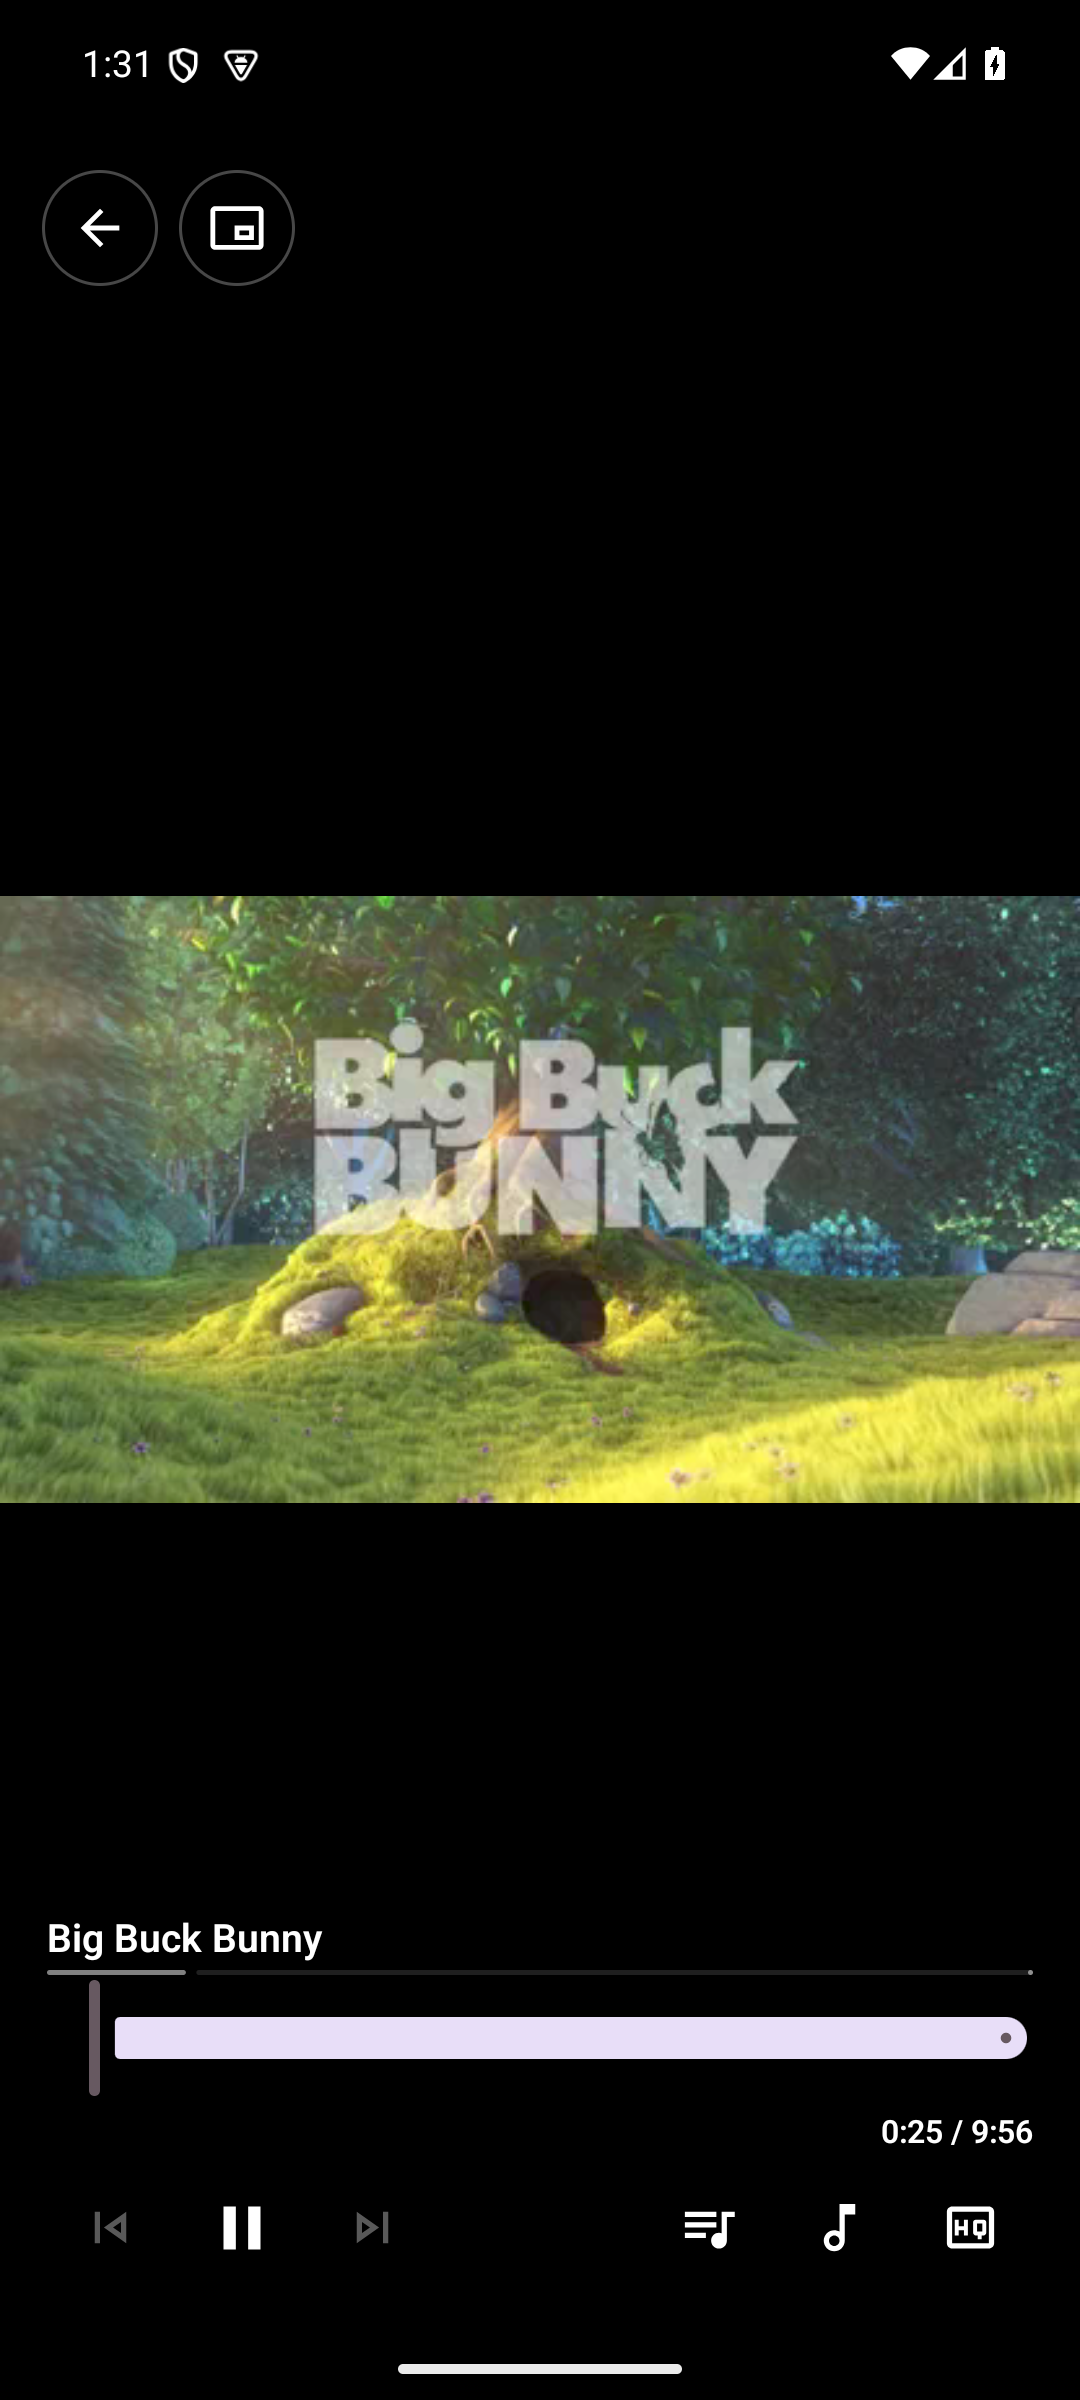
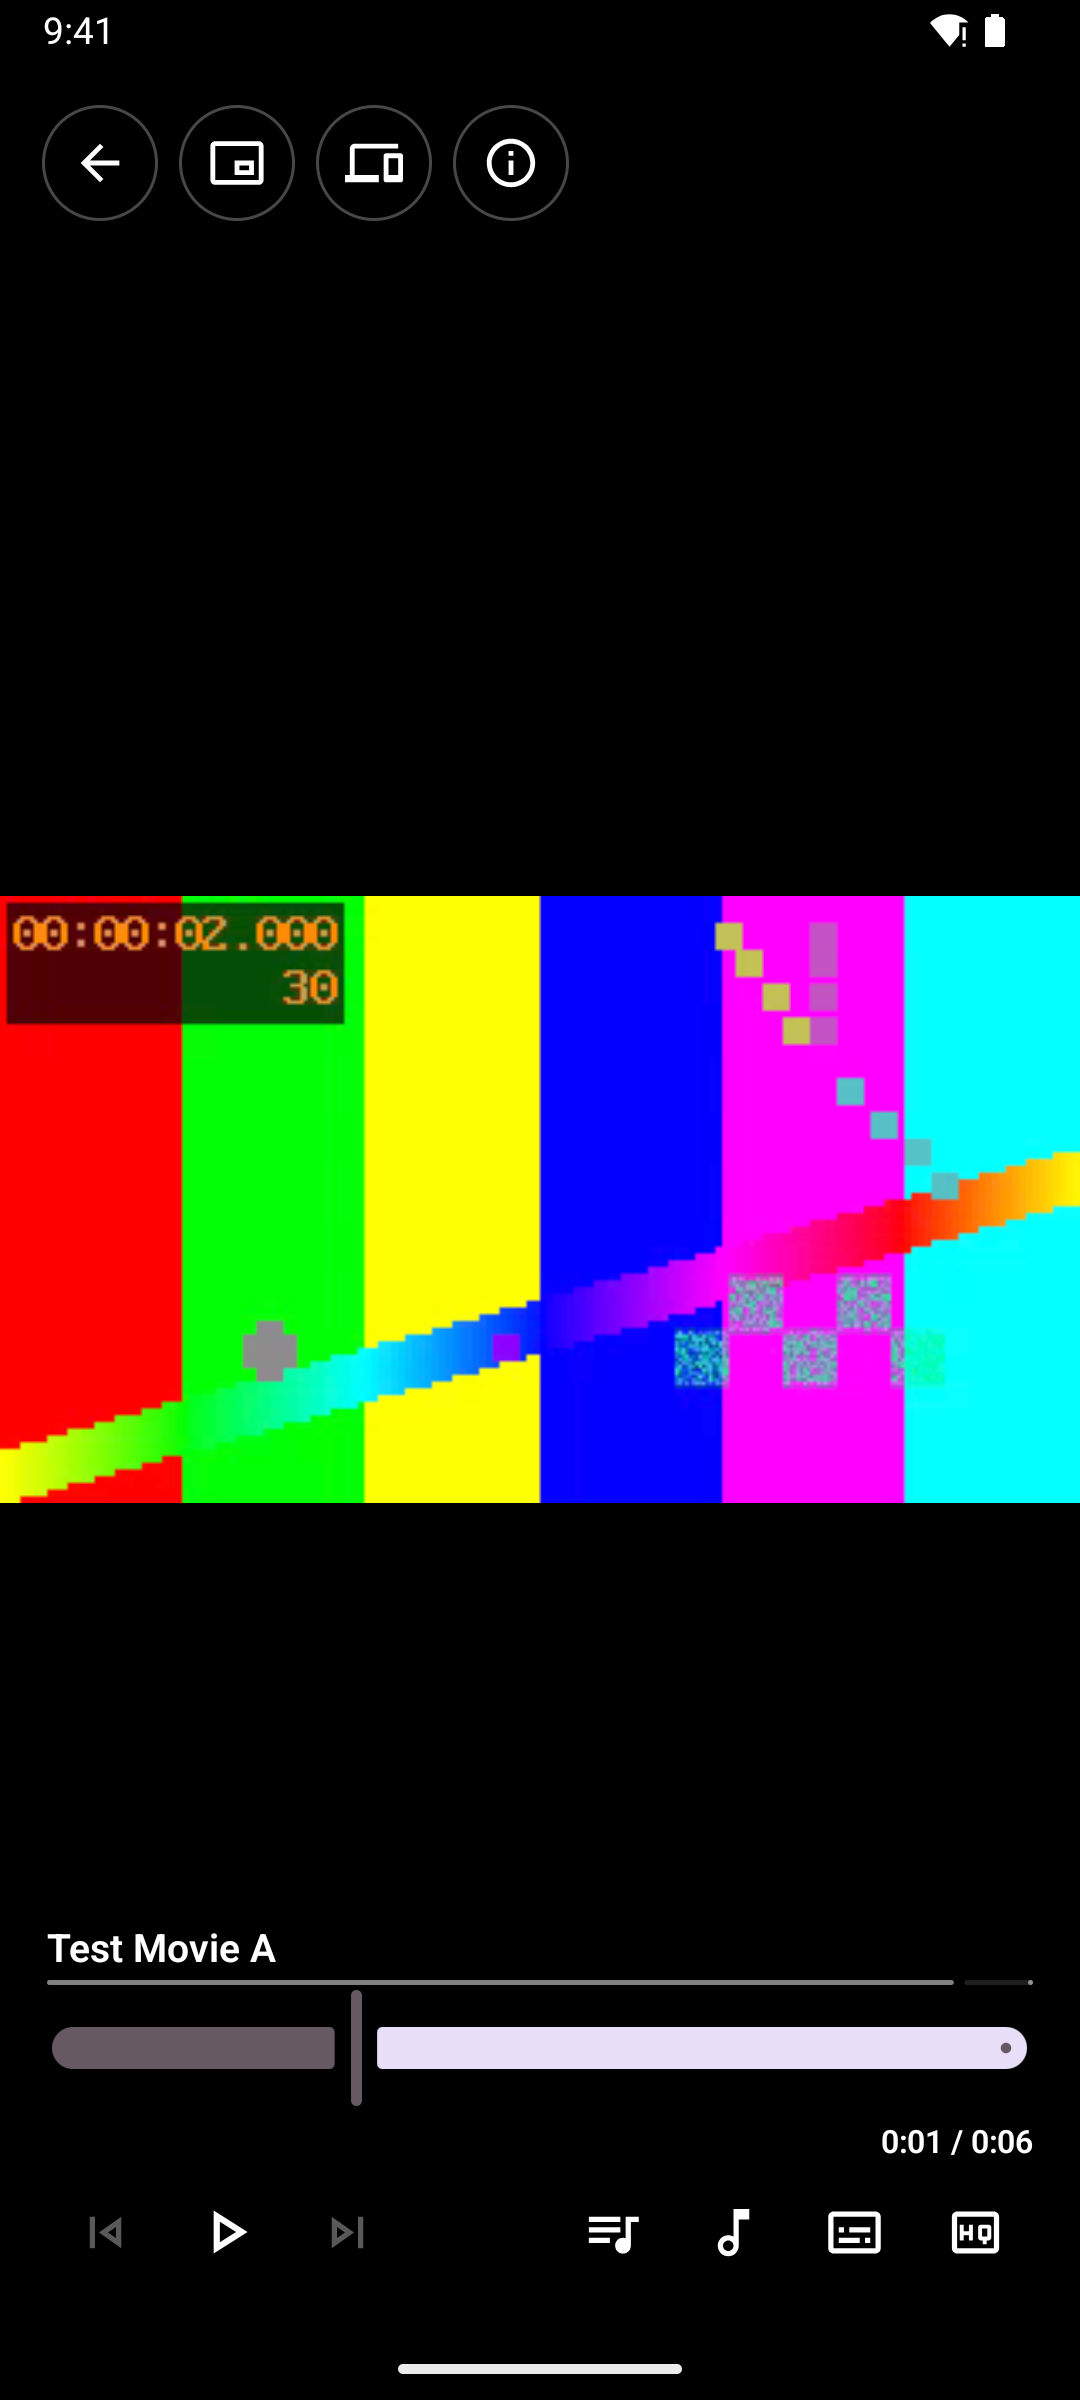
docs(screenshots): retake Play store screenshots against the placeholder library and add the row 361 fragment

diff --git a/tasks.d/361.md b/tasks.d/361.md
@@ -1,0 +1,1 @@
+| 361 | Remove media titles and real media artwork from the repository tree (owner order, 5 October 2026) | in progress: tree scrubbed in PR 258; items (1) and (2) done in PR 53; history rewrite (3) dropped by the owner | history-rewrite worker | Owner order, 5 October 2026. Tree uses placeholder titles in tests, fixtures and docs, generated placeholder images and procedural Apple TV parity artwork. Item (1) done 2026-10-07: the fixture source stub now serves generated placeholder posters, backdrops and episode stills (`scripts/fixtures/art.mjs`). Site screenshots (movies library, series library, movie detail, server admin) were retaken at 1920x1080 from the web client and admin app against that library; the music screenshot was replaced by a series one because the fixture has no music library. The five Android Play screenshots (phone home, detail, playback at 1080x2400; TV home, detail at 1920x1080) were retaken from the native app on headless emulators signed in as a fixture user, replacing the ones that showed an openly licensed short film and its artwork. The social cards, feature graphic, TV banner and icon are brand graphics with no media and were left as they are. Item (2) done: the Apple TV references are native simulator captures of the built-in placeholder parity fixtures; new workflow `appletv-parity.yml` (macos-latest, workflow_dispatch plus a run when the file changes) captured all nine screens and uploads them as an artifact (nothing committed), and the web side of `scripts/appletv-parity-suite.mjs` now targets the fixture server with an optional fixture sign-in instead of the live site. Roku has no simulator: its references are real-device freezes compared with web captures by `clients/roku/scripts/parity_ae0.py`; the committed Roku images are UI chrome crops with no media, so there was nothing to regenerate, and new device freezes need a physical device. Open: the Play review demo server (`clients/tv-web/apps/play-review-server`) still serves an openly licensed short film by design so Google reviewers can play something; replace or justify it separately. |

diff --git a/docs/validation/fixture-environment.md b/docs/validation/fixture-environment.md
@@ -104,6 +104,10 @@ an HLS manifest for every fixture file).
 
 ## Limits
 
-Artwork is absent (the stub returns no images). The stub does not implement
+Artwork is generated, not real: `art.mjs` renders a poster and a backdrop per title with ffmpeg
+(gradient, shapes and the placeholder title), `up.sh` writes them to `.fixtures/media/art`, and the
+stub serves them as the `remoteUrl` of each poster and fanart image (and as episode screenshots), so
+the server caches them like any other source artwork. There is no music or book library, so music
+screens stay empty. The stub does not implement
 download or request flows. Folder roots (unsorted folders) are not registered;
 add `.fixtures/media` as a folder root through the admin API if row 371 needs it.

diff --git a/clients/android/fastlane/README.md b/clients/android/fastlane/README.md
@@ -1,3 +1,3 @@
 # Android fastlane metadata
 
-Attribution: the Play store screenshots in `metadata/android/en-US/images/` (phone 01/02, TV 02) show Big Buck Bunny, (c) copyright 2008, Blender Foundation / www.bigbuckbunny.org, licensed under [CC BY 3.0](https://creativecommons.org/licenses/by/3.0/). See the root `README.md` ("Third-party media").
+The Play store screenshots in `metadata/android/en-US/images/` are captured from the native app against the placeholder fixture library (`scripts/fixtures/up.sh`, generated placeholder titles and artwork), so they show no real titles or artwork. Retake them the same way: signed in as a fixture user on a 1080x2400 phone and a 1920x1080 TV emulator. The icon, feature graphic and TV banner are brand graphics.

diff --git a/changelog.d/placeholder-screenshots.documentation.md b/changelog.d/placeholder-screenshots.documentation.md
@@ -1,0 +1,1 @@
+- Retook the site and Google Play screenshots against a placeholder demo library (generated posters and backdrops served by the fixture stub), so no real title or artwork is shown. Added a dispatchable Apple TV parity capture workflow that uses the built-in placeholder fixtures.
